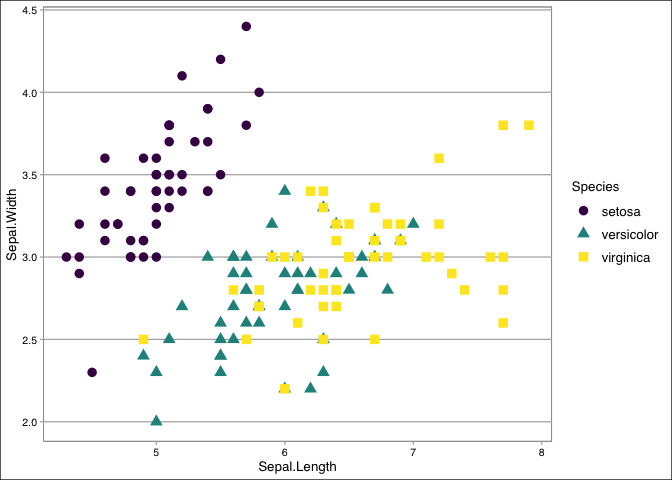
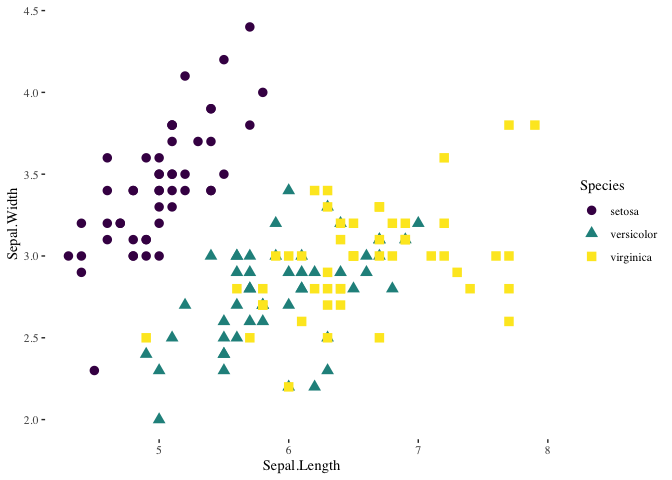
Fix the labels

diff --git a/Styling-Scatterplot.md b/Styling-Scatterplot.md
@@ -1,8 +1,6 @@
 Styling Scatterplots
 ================
 
-# Styling Scatterplots
-
 # Introduction
 
 A scatterplot is a useful and straightforward way to visualize the
@@ -244,8 +242,8 @@ ggplot(iris, aes(x=Sepal.Length, y=Sepal.Width,
                  shape=Species)) + 
   geom_point(size=3) +
   scale_color_viridis(discrete=TRUE,option = "D") +
-  ## Using the theme_calc()
-  theme_calc()
+  ## Using the theme_tufte()
+  theme_tufte()
 ```
 
 ![](Styling-Scatterplot_files/figure-gfm/unnamed-chunk-10-1.png)<!-- -->
@@ -336,11 +334,7 @@ specific patterns in our dataset.
   - According to the plot, it seems like there exists a linear
     relationship betwee sepal length and sepal width. Thus, let’s add a
     linear trend to our scattplot to help readers see the pattern more
-    directly using `geom_smooth()`. Note that the method argument in
-    `geom_smooth()` allows to apply different smoothing method like glm,
-    loess and more. See the
-    [doc](https://ggplot2.tidyverse.org/reference/geom_smooth.html) for
-    more.
+    directly using `geom_smooth()`.
 
 <!-- end list -->
 
@@ -367,11 +361,43 @@ ggplot(iris, aes(x=Sepal.Length, y=Sepal.Width,
 
 ![](Styling-Scatterplot_files/figure-gfm/unnamed-chunk-13-1.png)<!-- -->
 
+#### <span style="color:orange"> **Other Trends** </span>
+
+  - There are many trends that your data can be suggested.Note that the
+    `method` argument in `geom_smooth()` allows to apply different
+    smoothing method like glm, loess and more. See the
+    [doc](https://ggplot2.tidyverse.org/reference/geom_smooth.html) for
+    more.
+    
+      - For example, if we want to specify the best trends by the given
+        data, we can leave the `method` argument empty.
+
+<!-- end list -->
+
+``` r
+ggplot(iris, aes(x=Sepal.Length, y=Sepal.Width, 
+                 col=Species,
+                 shape=Species)) + 
+  geom_point(size=3) +
+  scale_color_viridis(discrete=TRUE,option = "D") +
+  labs(
+    x="Sepal Length",
+    y="Speal Width",
+    title = "Sepal length vs. Sepal width",
+    subtitle = "plot within different Iris Species"
+  )+
+  theme_minimal(base_size = 12) +
+  theme(plot.title = element_text(hjust = 0.5),
+        plot.subtitle = element_text(hjust = 0.5))+
+  theme (plot.title = element_text(color = "black", size = 14, face = "bold"),
+         plot.subtitle = element_text(color = "grey40",size = 10, face = 'italic')) +
+  geom_smooth(se=TRUE)
+```
+
+![](Styling-Scatterplot_files/figure-gfm/unnamed-chunk-14-1.png)<!-- -->
+
 ## Keep in Mind
 
-  - Check
-    [here](https://rstudio.com/wp-content/uploads/2015/03/ggplot2-cheatsheet.pdf)
-    for more data visualization with `ggplot2` package.
   - **REMEMBER** always clean your dataset before you try to make
     scatterplots since in the real world, the dataset is always messier
     than the `iris` dataset.
@@ -380,8 +406,8 @@ ggplot(iris, aes(x=Sepal.Length, y=Sepal.Width,
     points.
   - **Be more careful** if you have **Date** (which is time-series data)
     as your x-variable, **Date** can be very tricky in many ways.
-  - **Google** is always your good friend if you have hard time figuring
-    out your code.
+  - **Google** and `help` function are always your good friends if you
+    have problems on your codes.
 
 ## Also Consider
 
@@ -396,3 +422,6 @@ ggplot(iris, aes(x=Sepal.Length, y=Sepal.Width,
     package, see
     [here](https://www.r-graph-gallery.com/279-plotting-time-series-with-ggplot2.html)
     for more help.
+  - Check
+    [here](https://rstudio.com/wp-content/uploads/2015/03/ggplot2-cheatsheet.pdf)
+    for more data visualization with `ggplot2` package.
